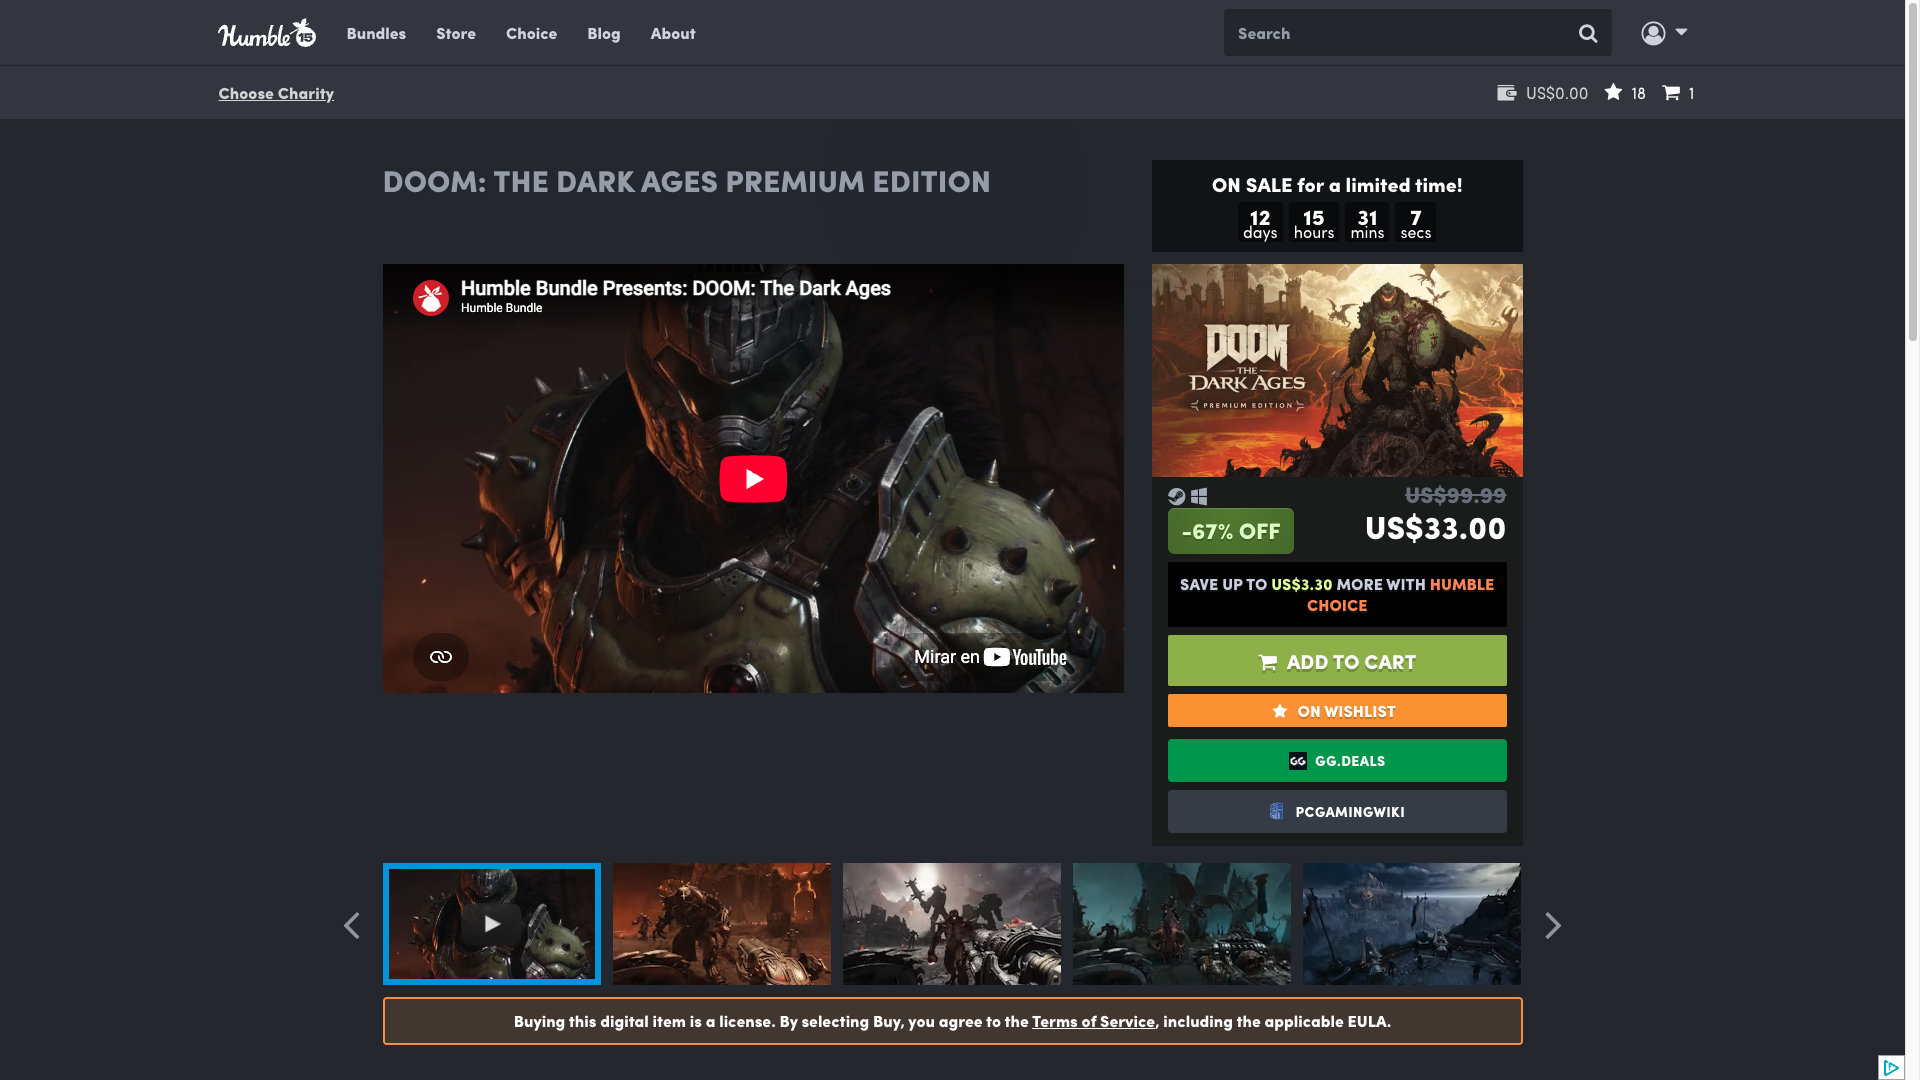
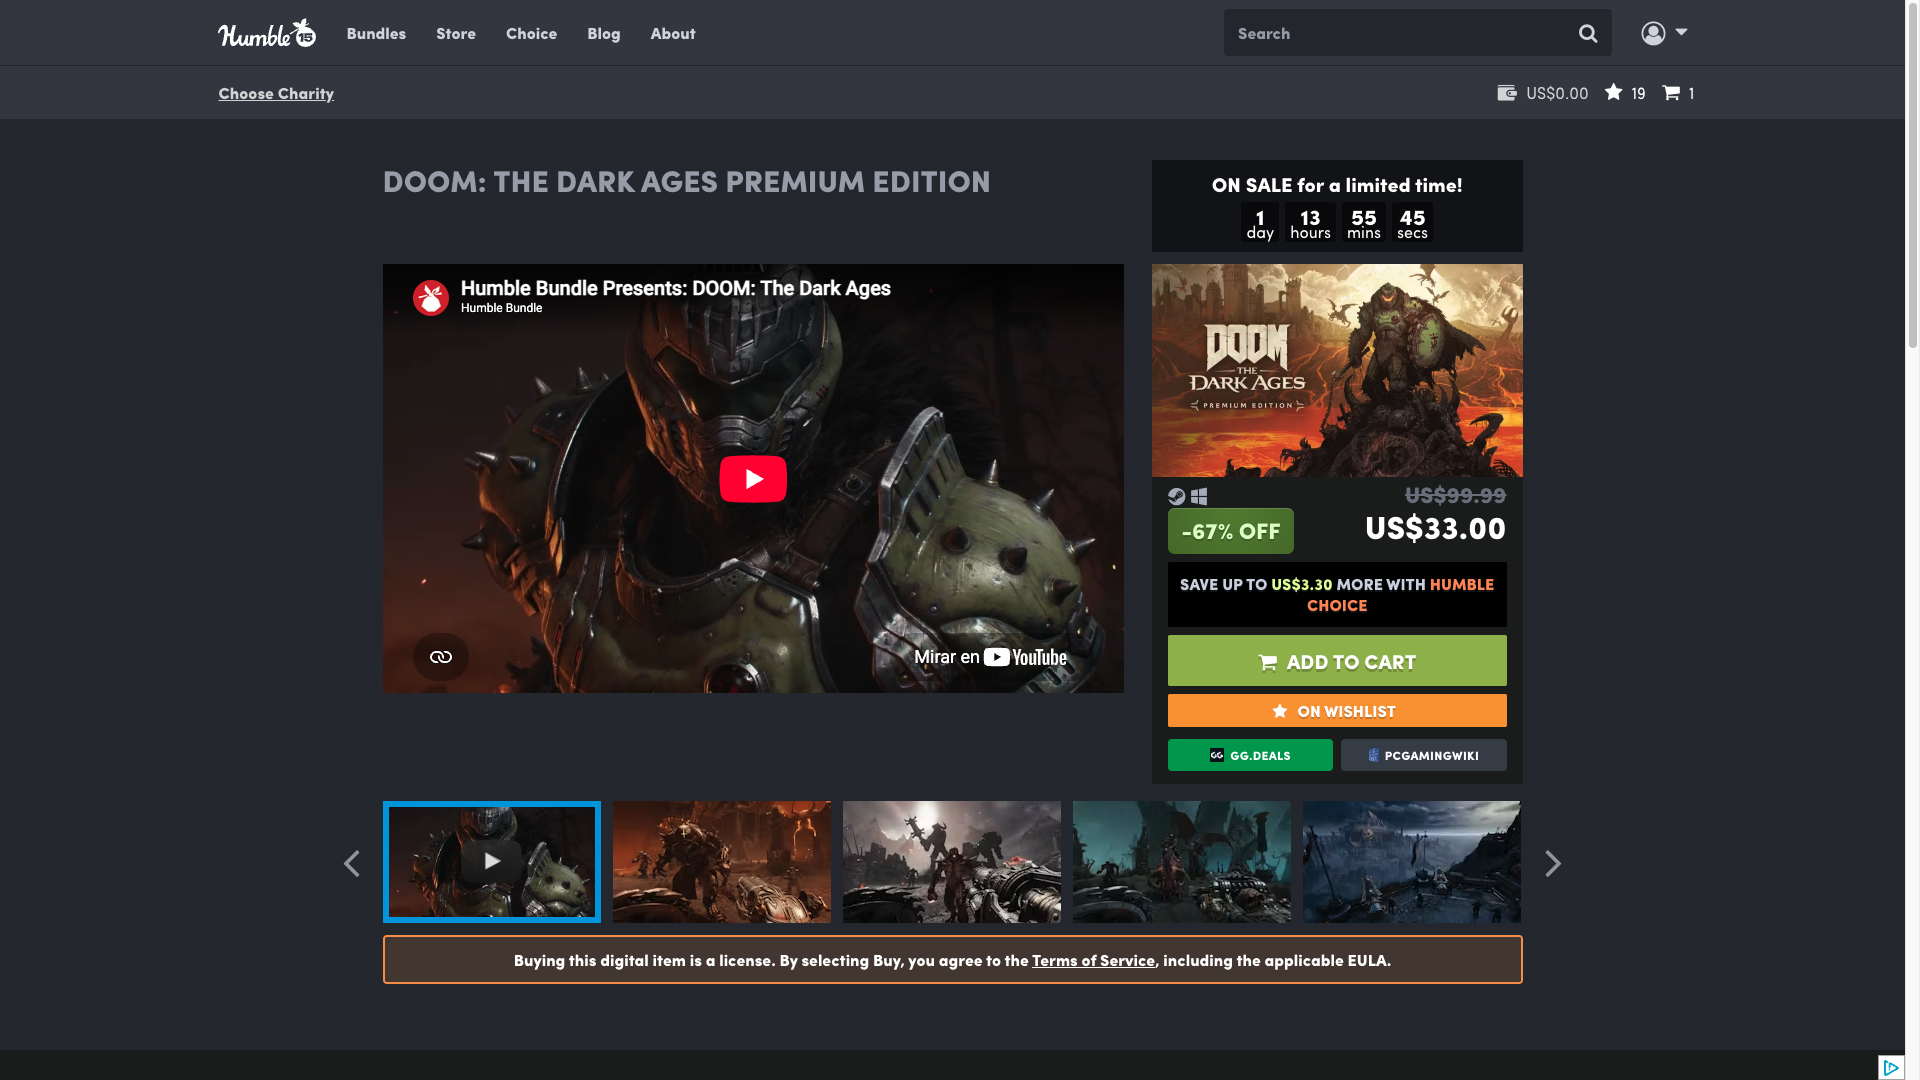
feat(humble-bundle-tools): botones de GG.deals y PCGamingWiki en una sola fila a mitad de ancho — bump 1.0.7 -> 1.0.8

Changed region(s): [[0.1875, 0.6722, 0.8125, 0.9778], [0.6562, 0.1833, 0.75, 0.2444]]

diff --git a/humble-bundle-tools.user.js b/humble-bundle-tools.user.js
@@ -1,7 +1,7 @@
 // ==UserScript==
 // @name         Humble Bundle Tools
 // @namespace    https://www.humblebundle.com/
-// @version      1.0.7
+// @version      1.0.8
 // @description  Humble Store, two things. On your wishlist: sort by added, name, price or discount with an ascending/descending toggle, filter by platform (built from what your list actually contains) or by 'only discounted', with remembered settings, a readable shareable URL and a 'Learn more' panel. On PC product pages: buttons to GG.deals and PCGamingWiki, searching by the cleaned game title and saying so in their tooltip.
 // @author       g31w0fw0rld
 // @license      MIT
@@ -115,7 +115,7 @@
         }
     };
     const t = I18N[LANG];
-    const SCRIPT_VERSION = '1.0.7'; // sincronizar con @version
+    const SCRIPT_VERSION = '1.0.8'; // sincronizar con @version
 
     // =========================================================================
     // MÓDULO 1 — WISHLIST: ordenar y filtrar
@@ -637,16 +637,20 @@
         const style = document.createElement('style');
         style.id = LINKS_STYLES_ID;
         style.textContent = `
-            #${LINKS_ID} { display: flex; flex-direction: column; gap: 8px; margin-top: 12px; }
+            #${LINKS_ID} { display: flex; gap: 8px; margin-top: 12px; }
             #${LINKS_ID} .hbx-btn {
-                display: flex; align-items: center; justify-content: center; gap: 8px;
-                width: 100%; box-sizing: border-box; padding: 12px 14px;
-                border-radius: 4px; font-size: 14px; font-weight: 700; letter-spacing: .3px;
+                display: flex; align-items: center; justify-content: center; gap: 6px;
+                flex: 1 1 0; min-width: 0; box-sizing: border-box; padding: 8px 10px;
+                border-radius: 4px; font-size: 12px; font-weight: 700; letter-spacing: .3px;
                 text-transform: uppercase; text-decoration: none; cursor: pointer;
-                transition: filter .15s ease;
+                white-space: nowrap; overflow: hidden; transition: filter .15s ease;
             }
             #${LINKS_ID} .hbx-btn:hover { filter: brightness(1.12); text-decoration: none; }
-            #${LINKS_ID} .hbx-ico { width: 18px; height: 18px; object-fit: contain; flex: 0 0 auto; }
+            #${LINKS_ID} .hbx-ico { display: inline-flex; align-items: center; flex: 0 0 auto; }
+            #${LINKS_ID} img.hbx-ico { width: 14px; height: 14px; object-fit: contain; }
+            /* El logo de PCGamingWiki es más alto que ancho (viewBox 827x1158): se fija
+               el alto y se deja el ancho automático para no deformarlo. */
+            #${LINKS_ID} .hbx-ico svg { height: 14px; width: auto; display: block; }
             #${LINKS_ID} .hbx-gg   { background: #12a150; color: #fff; }
             #${LINKS_ID} .hbx-pcgw { background: #3d4450; color: #fff; }
         `;
@@ -666,7 +670,6 @@
         if (opts && opts.iconSvg) {
             const span = document.createElement('span');
             span.className = 'hbx-ico';
-            span.style.display = 'inline-flex';
             span.innerHTML = opts.iconSvg;
             a.appendChild(span);
         } else if (opts && opts.iconUrl) {

diff --git a/README.md b/README.md
@@ -6,9 +6,9 @@ Tampermonkey userscript for the Humble Store: wishlist tools plus GG.deals and P
 
 *Wishlist (`/wishlist`): sort, direction, platform filter, "only discounted", "remember", copy link and "Learn more", all in one row above your games. / Lista de deseos (`/wishlist`): orden, dirección, filtro de plataforma, "solo con descuento", "recordar", copiar enlace y "Saber más", todo en una fila sobre tus juegos.*
 
-![The GG.deals and PCGamingWiki buttons below the purchase column of a Humble product page](docs/screenshot-store.png)
+![The GG.deals and PCGamingWiki buttons in a single row at the end of the purchase column of a Humble product page](docs/screenshot-store.png)
 
-*Product page (`/store/`): both buttons close the purchase column, below "Add to cart" and the wishlist button. / Página de producto (`/store/`): los dos botones cierran la columna de compra, bajo "Add to cart" y el botón de lista de deseos.*
+*Product page (`/store/`): both buttons close the purchase column in a single row, below "Add to cart" and the wishlist button. / Página de producto (`/store/`): los dos botones cierran la columna de compra en una sola fila, bajo "Add to cart" y el botón de lista de deseos.*
 
 ## English
 
@@ -23,7 +23,7 @@ Tampermonkey userscript for the Humble Store: wishlist tools plus GG.deals and P
 - **"Learn more"** button with the full explanation inside the page, and a tooltip on every control.
 
 **Product pages (`/store/`)**
-- Adds a **GG.deals** button (prices and deals across stores) and a **PCGamingWiki** button (fixes, technical notes, known issues), stacked at the end of the purchase column.
+- Adds a **GG.deals** button (prices and deals across stores) and a **PCGamingWiki** button (fixes, technical notes, known issues), side by side in a single row at the end of the purchase column, each taking half the width.
 - **Only on PC games.** The script checks the price grid for a PC platform icon first, so console-only products are left alone — PCGamingWiki would have nothing to say about them.
 - Both search by the game's title, which is **cleaned first**: the commercial wrapping Humble adds ("Buy …", "… on Humble Store", trademark symbols) is stripped so the search sees the name and nothing else. Being title searches they can still miss, so **each button says so in its tooltip** — the label carries the destination, the tooltip carries the uncertainty.
 - The PCGamingWiki logo travels **inline as SVG**, because its favicon returns 403 to hotlinking; the GG.deals favicon loads as a normal image and, if it were ever blocked, removes itself and leaves the button working with just its label.
@@ -50,7 +50,7 @@ Tampermonkey userscript for the Humble Store: wishlist tools plus GG.deals and P
 - Botón **"Saber más"** con la explicación completa dentro de la página, y un tooltip en cada control.
 
 **Páginas de producto (`/store/`)**
-- Añade un botón de **GG.deals** (precios y ofertas entre tiendas) y otro de **PCGamingWiki** (arreglos, notas técnicas, problemas conocidos), apilados al final de la columna de compra.
+- Añade un botón de **GG.deals** (precios y ofertas entre tiendas) y otro de **PCGamingWiki** (arreglos, notas técnicas, problemas conocidos), lado a lado en una sola fila al final de la columna de compra, a mitad de ancho cada uno.
 - **Solo en juegos de PC.** El script comprueba antes que la parrilla de precios tenga un icono de plataforma PC, así que los productos solo de consola se quedan sin botones — PCGamingWiki no tendría nada que decir de ellos.
 - Los dos buscan por el título del juego, que se **limpia antes**: el envoltorio comercial que añade Humble ("Comprar …", "… en la tienda Humble", símbolos de marca registrada) se quita para que la búsqueda vea el nombre y nada más. Aun así, al buscar por nombre pueden no acertar, así que **cada botón lo dice en su tooltip** — la etiqueta carga el destino y el tooltip la incertidumbre.
 - El logo de PCGamingWiki viaja **como SVG en línea**, porque su favicon devuelve 403 al enlazarlo desde fuera; el favicon de GG.deals carga como imagen normal y, si alguna vez lo bloquearan, se quita solo y deja el botón funcionando con su etiqueta.
